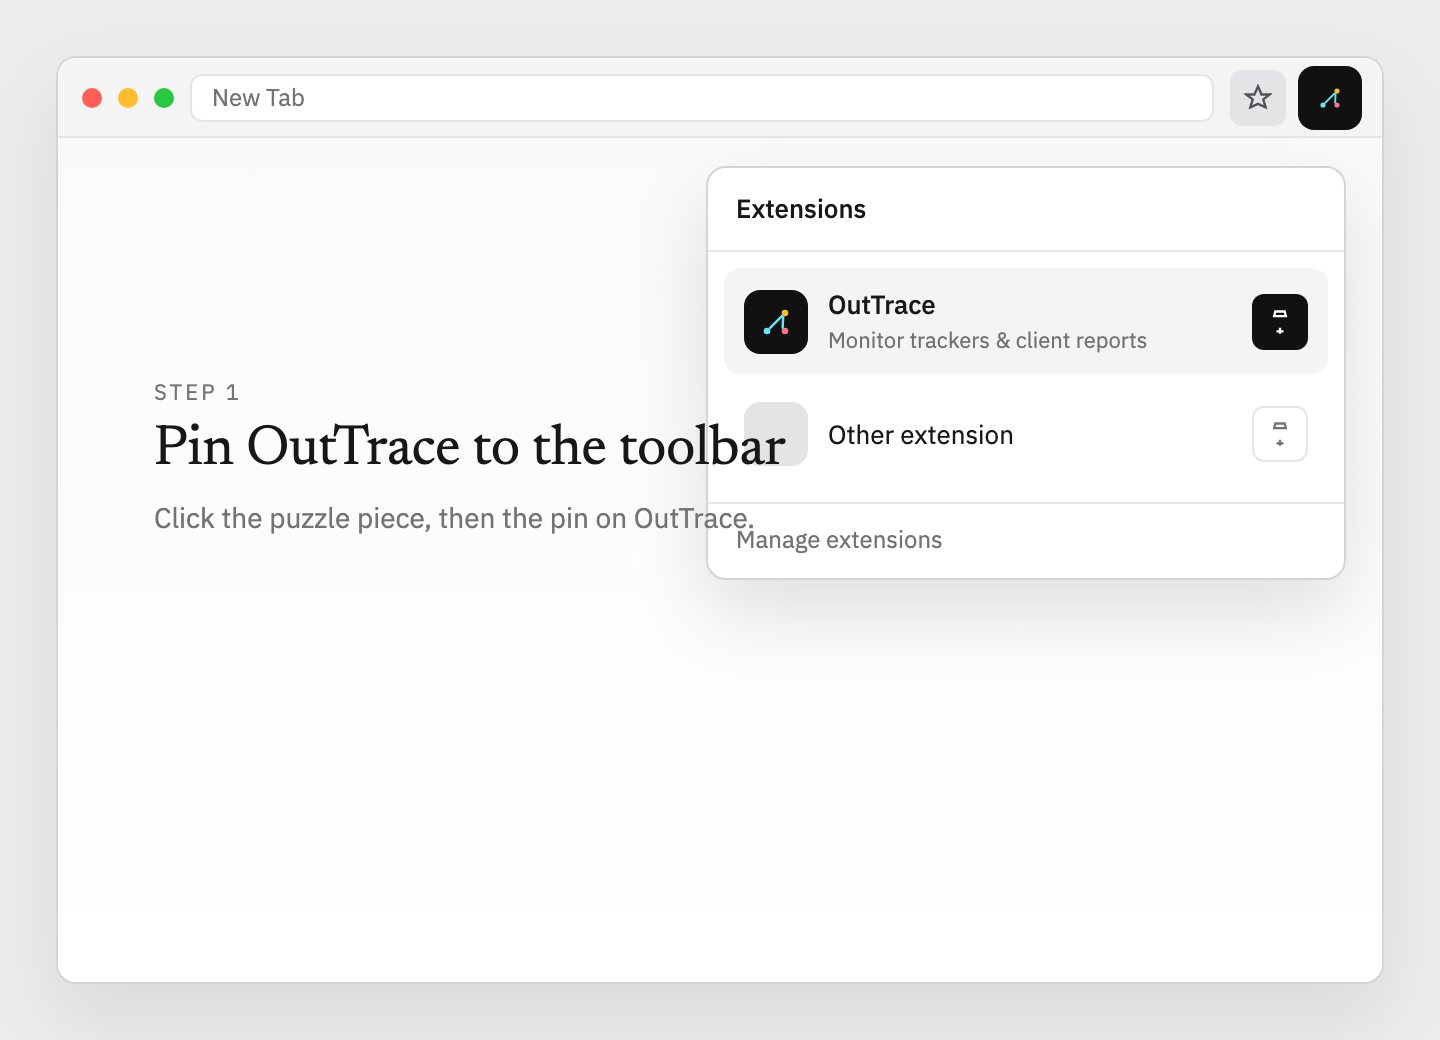
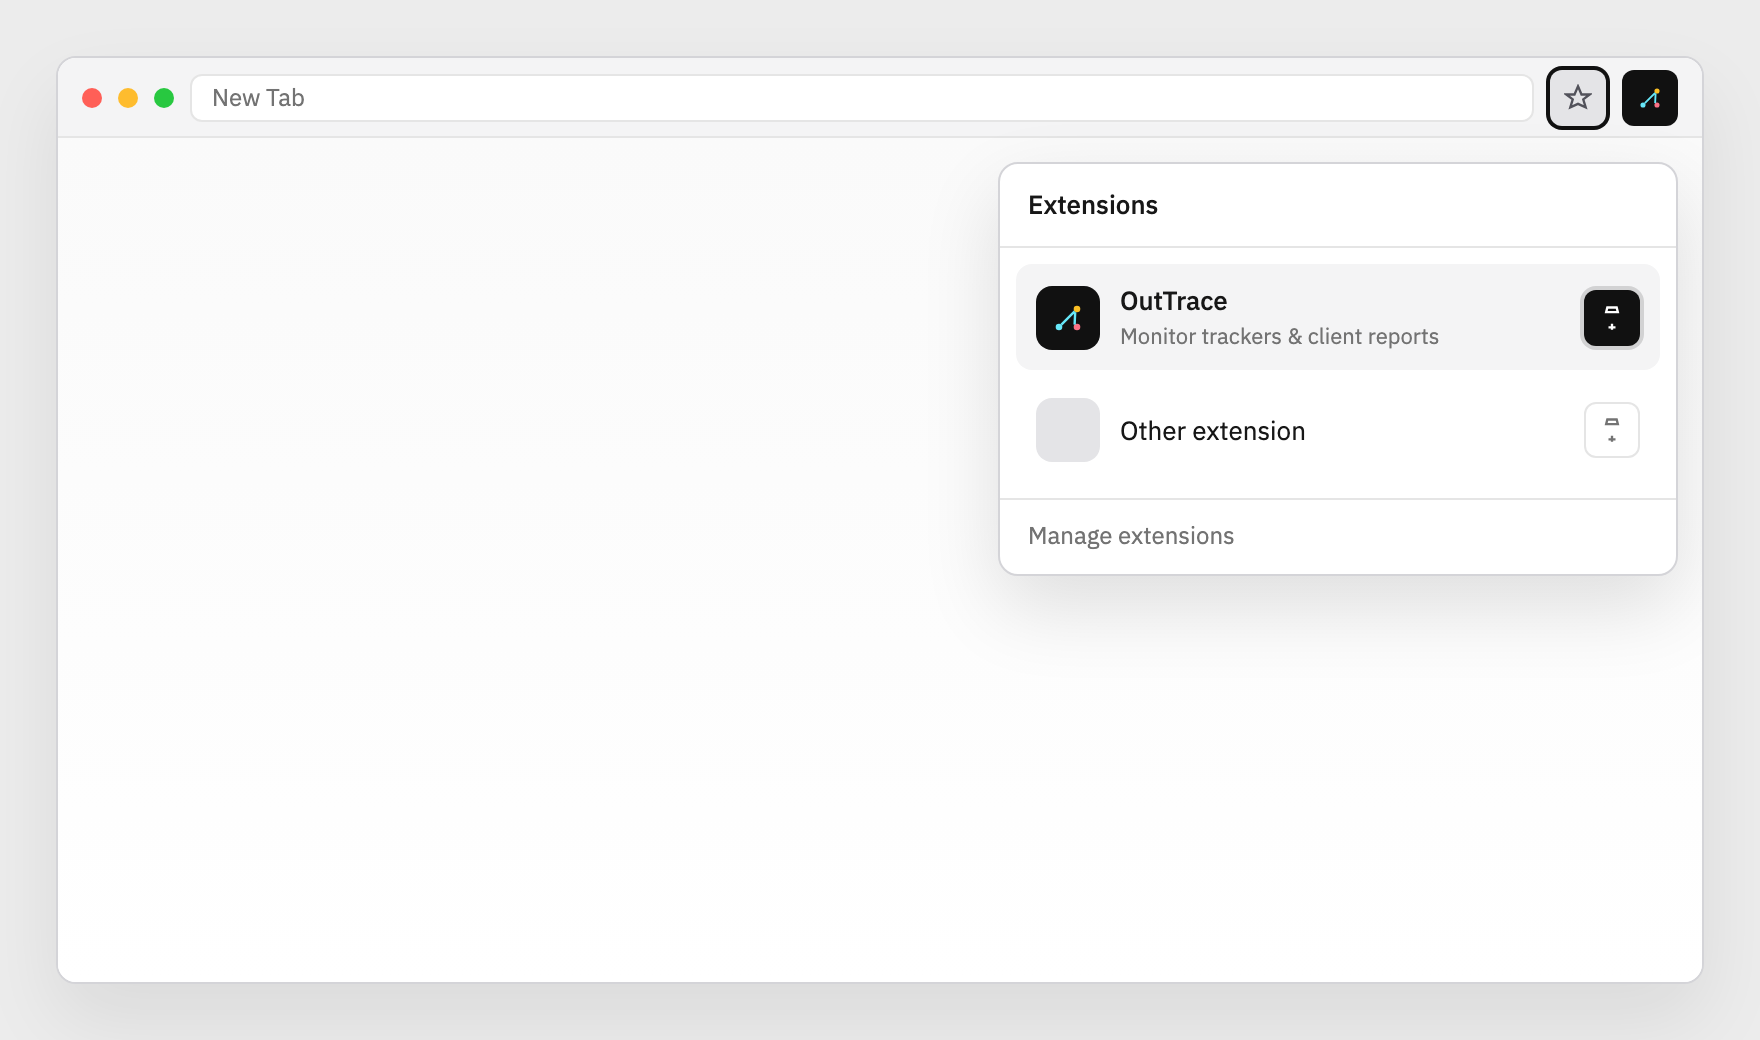
Fix pin onboarding visual and add scroll-to-dashboard CTA.
Remove overlapping step copy from the pin screenshot and show a bottom-right dashboard button after users scroll past the walkthrough.

diff --git a/store/assets/frames.html b/store/assets/frames.html
@@ -365,22 +365,22 @@
   </div>
 </section>
 
-<section id="shot-pin" class="shot" style="width:720px; height:520px; background:#ececec; padding:28px;">
+<section id="shot-pin" class="shot" style="width:880px; height:520px; background:#ececec; padding:28px;">
   <div style="height:100%; background:#fff; border:1px solid #d4d4d8; border-radius:10px; overflow:hidden; box-shadow:0 18px 40px rgba(0,0,0,.08);">
     <div style="height:40px; background:#f4f4f5; border-bottom:1px solid var(--line); display:flex; align-items:center; gap:8px; padding:0 12px;">
       <span style="width:10px;height:10px;border-radius:50%;background:#ff5f57;"></span>
       <span style="width:10px;height:10px;border-radius:50%;background:#febc2e;"></span>
       <span style="width:10px;height:10px;border-radius:50%;background:#28c840;"></span>
       <div style="flex:1; height:24px; background:#fff; border:1px solid var(--line); border-radius:6px; display:flex; align-items:center; padding:0 10px; font-size:12px; color:var(--mute);">New Tab</div>
-      <div style="width:28px;height:28px;border-radius:6px;background:#e4e4e7;display:flex;align-items:center;justify-content:center;">
+      <div style="width:28px;height:28px;border-radius:6px;background:#e4e4e7;display:flex;align-items:center;justify-content:center; box-shadow:0 0 0 2px #111;">
         <svg width="14" height="14" viewBox="0 0 24 24" fill="none" stroke="#52525b" stroke-width="2"><path d="M12 2l3 7h7l-5.5 4.2 2.1 6.8L12 17l-6.6 3 2.1-6.8L2 9h7z"/></svg>
       </div>
-      <div style="width:28px;height:28px;border-radius:6px;background:#111;display:flex;align-items:center;justify-content:center; box-shadow:0 0 0 2px #111;">
+      <div style="width:28px;height:28px;border-radius:6px;background:#111;display:flex;align-items:center;justify-content:center;">
         <svg width="14" height="14" viewBox="0 0 24 24" fill="none"><circle cx="6" cy="18" r="2.2" fill="#67e8f9"/><circle cx="18" cy="6" r="2.2" fill="#fbbf24"/><circle cx="18" cy="18" r="2.2" fill="#fb7185"/><path d="M7.6 16.4 L16.4 7.6 M16.4 16.4 L16.8 8.2" stroke="#67e8f9" stroke-width="1.6"/></svg>
       </div>
     </div>
     <div style="position:relative; height:calc(100% - 40px); background:linear-gradient(180deg,#fafafa 0%,#fff 100%);">
-      <div style="position:absolute; top:14px; right:18px; width:320px; background:#fff; border:1px solid #d4d4d8; border-radius:10px; box-shadow:0 16px 40px rgba(0,0,0,.12); overflow:hidden;">
+      <div style="position:absolute; top:12px; right:12px; width:340px; background:#fff; border:1px solid #d4d4d8; border-radius:10px; box-shadow:0 16px 40px rgba(0,0,0,.12); overflow:hidden;">
         <div style="padding:12px 14px; border-bottom:1px solid var(--line); font-size:13px; font-weight:500;">Extensions</div>
         <div style="padding:8px;">
           <div style="display:flex; align-items:center; gap:10px; padding:10px; border-radius:8px; background:#f4f4f5;">
@@ -391,7 +391,7 @@
               <p style="margin:0; font-size:13px; font-weight:500;">OutTrace</p>
               <p class="mute" style="margin:2px 0 0; font-size:11px;">Monitor trackers &amp; client reports</p>
             </div>
-            <div style="width:28px;height:28px;border-radius:6px;background:#111;color:#fff;display:flex;align-items:center;justify-content:center;">
+            <div style="width:28px;height:28px;border-radius:6px;background:#111;color:#fff;display:flex;align-items:center;justify-content:center; box-shadow:0 0 0 2px rgba(23,23,23,.15);">
               <svg width="14" height="14" viewBox="0 0 24 24" fill="none" stroke="currentColor" stroke-width="2"><path d="M12 17v5M9 20h6M8 3h8l1 4H7l1-4z"/></svg>
             </div>
           </div>
@@ -404,11 +404,6 @@
           </div>
         </div>
         <div style="padding:10px 14px 12px; border-top:1px solid var(--line); font-size:12px;" class="mute">Manage extensions</div>
-      </div>
-      <div style="position:absolute; left:48px; top:120px; max-width:360px;">
-        <p class="kicker" style="margin:0;">Step 1</p>
-        <p style="font-size:28px; margin:8px 0 0; font-family:'Newsreader',Georgia,serif;">Pin OutTrace to the toolbar</p>
-        <p class="mute" style="font-size:14px; line-height:1.5; margin:10px 0 0;">Click the puzzle piece, then the pin on OutTrace.</p>
       </div>
     </div>
   </div>

diff --git a/src/dashboard/Welcome.tsx b/src/dashboard/Welcome.tsx
@@ -1,10 +1,12 @@
+import { useEffect, useRef, useState } from "react";
 import { Link } from "react-router-dom";
-import { Eye, FileText, ScanSearch } from "lucide-react";
+import { ArrowRight, Eye, FileText, ScanSearch } from "lucide-react";
 import { ProductHuntBadge } from "@/src/components/ProductHuntBadge";
 import {
   OnboardingScreenshot,
   OnboardingStep,
 } from "@/src/components/welcome/OnboardingScreenshot";
+import { cn } from "@/src/lib/utils";
 
 const ONBOARDING = {
   pin: "/onboarding/pin-outtrace.png",
@@ -60,7 +62,8 @@ export function WelcomePage() {
                 <OnboardingScreenshot
                   src={ONBOARDING.pin}
                   alt="Chrome extensions menu with OutTrace pinned to the toolbar"
-                  aspect="720/520"
+                  aspect="880/520"
+                  objectPosition="right top"
                   badge="Pin"
                 />
               }
@@ -128,6 +131,7 @@ export function WelcomePage() {
             your client.
           </Outcome>
         </section>
+        <WelcomeDashboardCta />
         <div className="mt-8 flex flex-wrap justify-between gap-4 text-[13px]">
           <Link to="/audits/new" className="underline">
             Need a broader view? Audit a site
@@ -146,6 +150,44 @@ export function WelcomePage() {
         </p>
       </div>
     </main>
+  );
+}
+
+function WelcomeDashboardCta() {
+  const sentinelRef = useRef<HTMLDivElement>(null);
+  const [visible, setVisible] = useState(false);
+
+  useEffect(() => {
+    const node = sentinelRef.current;
+    if (!node) return;
+
+    const observer = new IntersectionObserver(
+      ([entry]) => {
+        setVisible(entry.isIntersecting);
+      },
+      { rootMargin: "0px 0px -72px 0px", threshold: 0 },
+    );
+
+    observer.observe(node);
+    return () => observer.disconnect();
+  }, []);
+
+  return (
+    <>
+      <div ref={sentinelRef} aria-hidden="true" className="h-px" />
+      <Link
+        to="/"
+        className={cn(
+          "fixed right-6 bottom-6 z-50 inline-flex h-11 items-center gap-2 rounded-md bg-ink px-4 text-[13px] font-medium text-canvas shadow-[0_12px_32px_rgba(23,23,23,0.18)] transition-[opacity,transform] duration-300 hover:bg-ink/90",
+          visible
+            ? "pointer-events-auto translate-y-0 opacity-100"
+            : "pointer-events-none translate-y-2 opacity-0",
+        )}
+      >
+        Go to dashboard
+        <ArrowRight className="h-4 w-4" aria-hidden="true" />
+      </Link>
+    </>
   );
 }
 

diff --git a/src/components/welcome/OnboardingScreenshot.tsx b/src/components/welcome/OnboardingScreenshot.tsx
@@ -7,12 +7,14 @@ export function OnboardingScreenshot({
   aspect = "16/10",
   className,
   badge,
+  objectPosition = "left top",
 }: {
   src: string;
   alt: string;
   aspect?: string;
   className?: string;
   badge?: string;
+  objectPosition?: string;
 }) {
   return (
     <div
@@ -37,7 +39,8 @@ export function OnboardingScreenshot({
           <img
             src={src}
             alt={alt}
-            className="h-full w-full object-cover object-left-top"
+            className="h-full w-full object-cover"
+            style={{ objectPosition }}
             loading="eager"
             decoding="async"
           />
